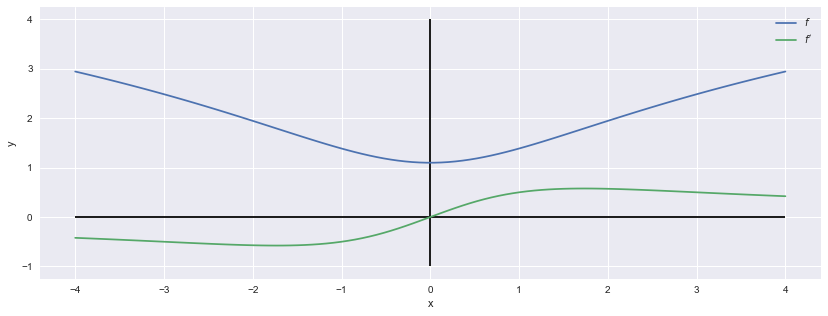
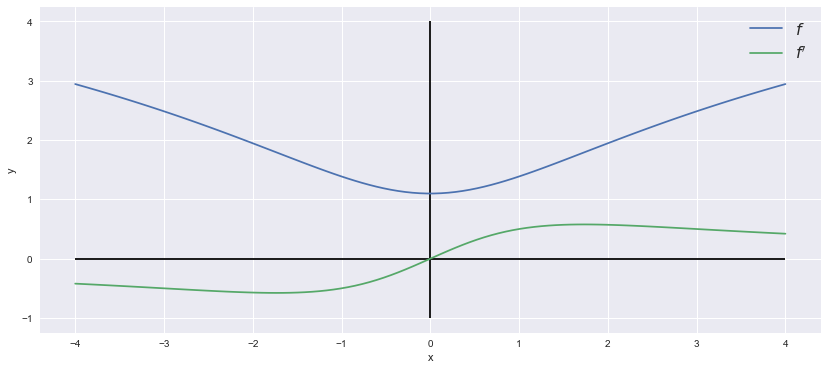
Update documentation

diff --git a/searchindex.js b/searchindex.js
@@ -1,1 +1,1 @@
-Search.setIndex({docnames:["data-pandas","innledning-programmering","intro","laste-inn-data","plotte"],envversion:{"sphinx.domains.c":2,"sphinx.domains.changeset":1,"sphinx.domains.citation":1,"sphinx.domains.cpp":4,"sphinx.domains.index":1,"sphinx.domains.javascript":2,"sphinx.domains.math":2,"sphinx.domains.python":3,"sphinx.domains.rst":2,"sphinx.domains.std":2,"sphinx.ext.intersphinx":1,"sphinxcontrib.bibtex":7,sphinx:56},filenames:["data-pandas.ipynb","innledning-programmering.ipynb","intro.md","laste-inn-data.ipynb","plotte.ipynb"],objects:{},objnames:{},objtypes:{},terms:{"0":[0,3,4],"00":[3,4],"000000":3,"00001":4,"01":3,"019231":3,"038462":3,"057692":3,"076923":3,"083333":3,"0x11a06e9a0":[],"0x11efd4b20":[],"1":1,"10":[3,4],"100":4,"11":[3,4],"111111":3,"12":[3,4],"120":3,"126":3,"127":3,"12759":0,"127788":0,"128129":0,"128612":0,"129578":0,"13":4,"132":3,"133":3,"134615":3,"1365":0,"14":[3,4],"141":3,"145":3,"15":4,"150":3,"152":3,"153":3,"153846":3,"157":3,"159":3,"16":[3,4],"160":3,"161":3,"16228":0,"166667":3,"17":4,"173077":3,"18":[3,4],"182":3,"1870":0,"1888":0,"19":3,"1920":3,"192308":3,"1939":3,"19680801":[],"1990":3,"2":[0,1],"20":[3,4],"2000":3,"2003":3,"2014":[],"2021":0,"2022":3,"21":[0,4],"211538":3,"22":[0,4],"222222":3,"23":[3,4],"236":3,"237":3,"238":3,"239":3,"24":4,"240":3,"2450":0,"25":3,"250000":3,"26":3,"277778":3,"29":3,"2x":4,"3":[0,1],"30":3,"31":3,"32":[0,3],"333333":3,"35":[0,3],"3630":0,"37":3,"4":[0,3],"40":3,"403846":3,"423077":3,"44":3,"442308":3,"46":3,"461538":3,"480769":3,"5":3,"50":3,"5025":0,"514":3,"515":3,"516":3,"517":3,"518":3,"54":3,"55":0,"555556":3,"58":3,"583333":3,"59":0,"6":[3,4],"61":3,"65":0,"66":0,"666667":3,"67":0,"691":3,"692":3,"693":3,"694":3,"695":3,"7":3,"70":0,"75":0,"750000":3,"7546762589928":3,"777778":3,"78":0,"8":[3,4],"833333":3,"85":0,"855":3,"856":3,"857":3,"858":3,"859":3,"860":3,"87":3,"87417582417586":3,"888889":3,"9":[3,4],"916667":3,"\u00e5":[0,1,3,4],"\u00e5pne":[1,3],"\u00e5pnet":1,"\u00e5r":3,"\u00e5rene":3,"\u00f8nsker":[0,1,3],"\u00f8re":0,"\u00f8verst":1,"b\u00e5de":0,"bl\u00e5ste":3,"d\u00f8gn":0,"default":[],"do":[],"f\u00e5":[0,1],"f\u00e5r":[0,1,3],"f\u00f8lgend":[0,3],"f\u00f8r":1,"f\u00f8rst":[0,1],"f\u00f8rste":[0,1,3],"function":[],"g\u00e5":0,"gj\u00f8r":[1,3],"gj\u00f8re":[0,3,4],"gr\u00f8t":0,"h\u00f8yest":3,"h\u00f8yreklikk":1,"halv\u00e5r":0,"id\u00e9":1,"import":[0,3,4],"kj\u00f8re":1,"kj\u00f8ringen":1,"kj\u00f8rt":1,"l\u00f8rdag":0,"l\u00f8rdagen":0,"l\u00f8ser":3,"m\u00e5":[0,3,4],"m\u00e5lestand":0,"m\u00e5lestasjon":3,"m\u00e5lt":3,"m\u00e5te":[0,3],"n\u00e5":[0,3],"n\u00e5r":[1,3],"ogs\u00e5":[0,3],"p\u00e5":[0,1,3,4],"rekkef\u00f8lgen":0,"return":4,"s\u00e5":[0,1,3],"s\u00e5kalt":0,"sm\u00e5":0,"sommer\u00f8ya":4,"st\u00e5r":0,"str\u00f8m":0,"str\u00f8mforbruk":0,"tilh\u00f8rend":4,"v\u00e5re":3,"v\u00e6re":[1,2],"v\u00e6rstasjon":0,"var":[0,3],And:[],As:[],At:[],BY:3,But:[],For:[0,3,4],If:[],In:[],It:[],The:[],There:[],_subplot:[],about:[],accept:[],add:[],add_:[],again:[],aksen:[3,4],alia:4,align:[],all:[],allow:[],alreadi:[],also:[],an:0,anaconda:1,anbefal:1,ander:0,andr:[1,3],ani:[],ankomst:0,anoth:[],antal:0,antallet:0,arrai:0,array:0,associ:[],auditori:[],australia:[],automatisk:1,av:[0,3],avhengig:3,avreis:0,ax:[],axessubplot:[],b:[1,3],begg:3,begin:[],behandl:3,being:[],bensinpris:3,beregning:3,bergen:4,betal:0,bib:[],bibliographi:[],bibtex:[],bla:1,ble:0,blir:[0,1,3],block:[],bokstaven:0,book:[],both:[],box:[],brian:[],brisban:[],bruke:[0,1,3,4],bruker:[0,3,4],brukt:0,build:[],built:[],bundl:[],bytt:0,c:[1,3,4],call:[],can:[],cc:3,cdot:[0,3],cell:[],cellen:1,celler:1,celsiu:3,check:[],christoph:[],circ:4,cite:[],cm:[],cmap:[],code:[],cognit:[],cold:[],color:[],column:[0,3],com:1,comma:0,command:[],common:[],commonmark:[],complex:[],comput:[],confer:[],content:[],coolwarm:[],cortex:[],creat:[],csv:[0,3],ctrl:[],custom_lin:[],cycler:[],d:3,d_f:4,da:[0,1,3,4],dagen:0,data:0,dataen:3,datafil:3,datafram:[0,3],datamaskin:1,datamengd:0,dataramm:3,datarammen:[0,3],dataserien:0,dataset:3,dato:3,datoer:3,de:[0,3,4],decim:3,def:4,defin:[],definer:4,definit:[],dekkend:1,del:[3,4],dem:0,den:[0,1,3,4],denn:[0,1,3,4],depend:[],der:[1,3],derfiner:4,derivert:4,dersom:[0,4],desimaltallen:3,det:[0,1,3],dett:[0,3,4],df:[0,3,4],diagramm:4,differ:[],dimensjon:0,din:[1,3],directli:[],displai:[],diss:[0,1,3],doc:[],document:[],doesn:[],dollar:3,dra:3,dtype:0,du:[1,3],dy:4,e39:3,e:[],ecosystem:[],egen:3,eier:0,eksempel:[],eksempelet:3,eksempl:[3,4],eleg:3,eller:1,emb:[],en:[0,1,3,4],end:[],endr:1,enkelt:1,enter:1,entir:[],er:[0,1,3,4],escap:[],et:[0,1,3,4],etc:[],evid:[],exampl:[],excel:3,exist:[],extens:[],f:[3,4],fahrenheit:3,feel:[],fig:[],figsiz:[3,4],figur:4,fil:[0,3],filen:[1,3],filer:[0,3],filnavnet:1,filtypen:0,fine:1,finn:3,finner:[0,1,4],first:[],fix:[],fjerd:1,flavor:[],fo:[],follow:[],forbruket:0,forhold:0,forkortels:4,formel:3,fra:[0,1],frac:3,fram:1,framstil:3,fredag:0,from:[],frontier:[],funger:1,funksjon:[0,3],funksjonen:4,funnet:3,gang:0,gansk:4,gaspric:3,gir:[0,3],github:3,gitt:[3,4],give:[],gjennom:[0,1,4],gjennomsnittsprisen:3,gjennomsnittstemperaturen:3,gjort:3,god:1,grader:3,grafen:4,grafer:4,grafisk:[3,4],gramstil:3,greit:4,grid:4,guid:[],gyldig:3,h:4,ha:[],hadd:3,har:[0,1,3],hdhpk14:[],heer:[],hele:3,hent:0,her:[1,2],here:[],heter:0,hjelp:3,hline:4,holdgraf:[],holdgraf_evidence_2014:[],hot:[],how:[],html:[],http:[1,3],human:[],hva:[0,3],hver:[0,4],hvilk:3,hvor:[0,3],hvordan:4,hytt:0,hytta:0,i:[0,1,3,4],ii:[],ikk:[1,3],imag:[],imorter:4,importer:[0,3],includ:[],indek:0,indeksen:0,index:0,index_col:3,individu:1,inform:[],init:[],inn:[0,1],innhol:3,innstilling:3,inntekt:0,inntekten:0,input:[],insert:[],insid:[],installert:1,interact:[],intern:[],intro:[],io:3,ion:[],ipynb:[],its:[],januar:3,jobbet:0,jupyt:[1,3],jupytext:[],jypyt:1,kaller:[0,3],kan:[0,1,2,3,4],kantinen:0,keep:[],kernel:[],kilowattim:0,kind:[],klar:1,klikk:1,klikker:[1,3],klima:3,klokkeslett:4,knappen:1,knight:[],koch:[],koch_curve_5:[],kodch:[],kodcjhttp:[],koden:1,kokkeslett:4,kolonn:[0,3],kolonneindek:0,kolonnen:[0,3],komm:1,komma:3,kommer:0,koordinatsystem:4,kraftig:3,kun:3,kunn:[3,4],kwh:0,kyll:0,la_:[],lab:1,label:4,lag:[0,3,4],lage:[0,4],lagen:1,lager:[0,3,4],laget:1,lagr:1,lagrer:3,lagret:[0,3],lagt:3,lak:0,languag:[],last:[0,1,3],lastet:3,legend:4,legg:[0,2],legger:[0,3,4],leirvik:4,lerstanden:0,lese:[1,3],leser:[0,3],less:[],like:1,liker:1,line2d:[],line:0,linjen:1,linspac:4,list:[3,4],lister:[0,4],listet:0,lite:3,litt:3,ll:[],ln:4,log:4,logaritm:4,logspac:[],look:[],lot:[],lurt:1,lw:[],m:3,ma:0,make:[],mandag:0,mang:[0,4],mani:[],mappen:[1,3],margen:1,markedli:[],markup:[],matematikk:[],math:[],matplotlib:[3,4],max:3,mbox:[],mc:[],md:[],mean:3,med:[0,1,3],medium:[],mellom:4,men:[0,1],mer:1,mest:[0,1],met:3,metadata:[],metod:3,metoden:[0,3],middag:0,min:3,modul:0,modulen:[0,4],more:[],moreov:[],most:[],mulighet:1,must:[],my:[],mydirectivenam:[],mye:0,n:[],name:[],nan:3,naturlig:4,navig:1,navn:[0,1,3,4],navnet:[0,1],nb:[],ned:[0,1,3],nedenfor:[1,4],nederst:3,nedlastningsmapp:3,nemlig:0,nettet:3,nettles:3,nettsiden:3,neurosci:[],noe:1,noen:[1,4],normaltid:3,norsk:3,note:[],notebook:1,nottem:3,nottingham:3,np:4,numpi:4,ny:[1,3],nye:0,nyttig:2,o:4,object:0,objekt:0,oft:[0,4],og:[1,3,4],om:3,omvendt:4,onc:[],one:[],onli:[],onsdag:0,opp:0,org:[],oss:[0,3],out:[],output:1,over:[0,1,3],overisk:0,pa:[0,3],page:[],panda:[0,3],par:3,paslei:[],pass:3,pasta:0,path:[],pattern:[],pd:[0,3],per:[0,3],perioden:3,pizza:0,plai:1,plass3:0,plot:3,plott:3,plotten:4,plotter:4,plt:[3,4],png:[],post:[],power:[],pre:[],predict:[],pri:[0,3],print:[1,3],prisen:0,priser:3,problem:3,product:1,program:1,programmer:1,prop_cycl:[],properli:[],punktum:3,purpos:[],pyplot:[3,4],python:[0,3],quantreg:3,r1:1,r:4,rad:0,rader:3,ramsai:[],randn:[],random:[],rang:[3,4],rcparam:[],rdataset:3,read_csv:3,refer:[],regn:3,regner:0,regular:[],reiser:0,rekk:[0,1],rel:[],render:[],rene:3,representasjon:4,reproduc:[],rest:[],result:[],resultatet:1,rett:0,retten:0,retter:0,robert:[],rolenam:[],row:3,run:[],rutenett:4,s:0,same:[],samm:4,sammen:[0,4],sampl:[],se:[0,3],seaborn:[3,4],see:[],seed:[],seg:1,seklima:3,selv:3,selvsagt:3,semikolon:3,sep:3,separ:0,ser:[0,3],seri:0,serv:[],shift:1,show:[3,4],si:1,sign:[],similar:[],simplest:[],sist:0,sistnevnt:1,skal:[0,3,4],skill:3,skjer:1,skjermen:1,skrev:0,skrive:3,skriver:[0,1],slight:[],slik:[0,1,4],slike:0,slott:3,slutt:0,small:[],sn48070:3,so:[],solgt:0,som:[0,1,2,3,4],some:[],span:[],specif:[],spesifiser:3,sphinx:[],spyder:1,stand:[],standard:3,starter:1,stasjon:3,state:[],stord:4,stordabrua:3,store:0,structur:[],style:[3,4],subplot:[],sum:0,summen:1,summer:0,sure:[],syntax:[],t:[],tabellen:4,tabl:3,taco:0,tall:0,tallen:[0,3,4],tegn:4,tempbergen:4,temperatur:[3,4],temperaturen:[0,3,4],templeirvik:4,ten:0,tex:[],text:[],thei:[],thi:[],those:[],tid:[3,4],tiden:3,tidliger:0,tidsrommet:3,tidsseri:3,tidsserien:3,til:[0,1,3,4],tilgang:0,time:3,ting:2,tisdag:0,titl:4,tittel:4,tool:[],torsdag:0,tre:1,trenger:1,trykker:1,two:[],type:0,ukedagen:0,ukentlig:3,ulik:[0,1,3,4],undervei:1,upload:[],url:3,urlen:3,us:[3,4],usa:3,ut:[0,1,2,3],utgiften:0,utvid:0,valgen:3,valid:[],valu:[0,3],vanlig:0,variabelen:1,variabl:1,variat:[],ved:[0,1,3,4],veldig:1,velg:[3,4],venstr:[1,3],verdi:4,verdien:[1,3,4],verdier:4,veri:[],verier:0,vi:[0,1,2,4],vil:[0,1,2,3],vincentarelbundock:3,vindkast:3,vindkasten:3,vindkastet:3,viser:[3,4],vline:4,want:[],welcom:[],well:[],wendi:[],when:[],wherea:[],whether:[],which:[],wikimedia:[],wikipedia:[],work:[],write:[],written:[],www:1,x:[3,4],xlabel:[3,4],y:[3,4],ylabel:[3,4],you:[],your:[]},titles:["Dataserier og datarammer","Installasjon av Python","Matematikk R1","Vi laster inn data fra internett","Plotte med Python"],titleterms:{"1":[0,3,4],"2":[3,4],"3":[3,4],"4":4,"5":4,"\u00e5":[],"l\u00f8sning":3,ad:[],ar:[],av:[1,4],behandl:[],block:[],book:[],citat:[],code:[],content:[],data:3,dataramm:0,dataseri:0,direct:[],eksempel:[0,3,4],execut:[],file:[],fra:3,funksjon:4,her:[],i:[],inn:3,installasjon:1,internett:3,jupyt:[],kontinuerlig:4,last:[],laster:3,linjediagramm:4,markdown:[],matematikk:2,med:4,myst:[],ned:[],notebook:[],og:0,oppgav:[0,3],output:[],plot:4,plott:4,python:[1,4],r1:2,role:[],siden:[],til:[],us:[],vel:[],velkommen:[],vi:3,welcom:[],what:[],your:[]}})
+Search.setIndex({docnames:["data-pandas","innledning-programmering","intro","laste-inn-data","plotte"],envversion:{"sphinx.domains.c":2,"sphinx.domains.changeset":1,"sphinx.domains.citation":1,"sphinx.domains.cpp":4,"sphinx.domains.index":1,"sphinx.domains.javascript":2,"sphinx.domains.math":2,"sphinx.domains.python":3,"sphinx.domains.rst":2,"sphinx.domains.std":2,"sphinx.ext.intersphinx":1,"sphinxcontrib.bibtex":7,sphinx:56},filenames:["data-pandas.ipynb","innledning-programmering.ipynb","intro.md","laste-inn-data.ipynb","plotte.ipynb"],objects:{},objnames:{},objtypes:{},terms:{"0":[0,3,4],"00":[3,4],"000000":3,"00001":4,"01":3,"019231":3,"038462":3,"057692":3,"076923":3,"083333":3,"0x11a06e9a0":[],"0x11efd4b20":[],"1":1,"10":[3,4],"100":4,"11":[3,4],"111111":3,"12":[3,4],"120":3,"126":3,"127":3,"12759":0,"127788":0,"128129":0,"128612":0,"129578":0,"13":4,"132":3,"133":3,"134615":3,"1365":0,"14":[3,4],"141":3,"145":3,"15":4,"150":3,"152":3,"153":3,"153846":3,"157":3,"159":3,"16":[3,4],"160":3,"161":3,"16228":0,"166667":3,"17":4,"173077":3,"18":[3,4],"182":3,"1870":0,"1888":0,"19":3,"1920":3,"192308":3,"1939":3,"19680801":[],"1990":3,"2":[0,1],"20":[3,4],"2000":3,"2003":3,"2014":[],"2021":0,"2022":3,"21":[0,4],"211538":3,"22":[0,4],"222222":3,"23":[3,4],"236":3,"237":3,"238":3,"239":3,"24":4,"240":3,"2450":0,"25":3,"250000":3,"26":3,"277778":3,"29":3,"2x":4,"3":[0,1],"30":3,"31":3,"32":[0,3],"333333":3,"35":[0,3],"3630":0,"37":3,"4":[0,3],"40":3,"403846":3,"423077":3,"44":3,"442308":3,"46":3,"461538":3,"480769":3,"5":3,"50":3,"5025":0,"514":3,"515":3,"516":3,"517":3,"518":3,"54":3,"55":0,"555556":3,"58":3,"583333":3,"59":0,"6":[3,4],"61":3,"65":0,"66":0,"666667":3,"67":0,"691":3,"692":3,"693":3,"694":3,"695":3,"7":3,"70":0,"75":0,"750000":3,"7546762589928":3,"777778":3,"78":0,"8":[3,4],"833333":3,"85":0,"855":3,"856":3,"857":3,"858":3,"859":3,"860":3,"87":3,"87417582417586":3,"888889":3,"9":[3,4],"916667":3,"\u00e5":[0,1,3,4],"\u00e5pne":[1,3],"\u00e5pnet":1,"\u00e5r":3,"\u00e5rene":3,"\u00f8nsker":[0,1,3],"\u00f8re":0,"\u00f8verst":1,"b\u00e5de":0,"bl\u00e5ste":3,"d\u00f8gn":0,"default":[],"do":[],"f\u00e5":[0,1],"f\u00e5r":[0,1,3],"f\u00f8lgend":[0,3],"f\u00f8r":1,"f\u00f8rst":[0,1],"f\u00f8rste":[0,1,3],"function":[],"g\u00e5":0,"gj\u00f8r":[1,3],"gj\u00f8re":[0,3,4],"gr\u00f8t":0,"h\u00f8yest":3,"h\u00f8yreklikk":1,"halv\u00e5r":0,"id\u00e9":1,"import":[0,3,4],"kj\u00f8re":1,"kj\u00f8ringen":1,"kj\u00f8rt":1,"l\u00f8rdag":0,"l\u00f8rdagen":0,"l\u00f8ser":3,"m\u00e5":[0,3,4],"m\u00e5lestand":0,"m\u00e5lestasjon":3,"m\u00e5lt":3,"m\u00e5te":[0,3],"n\u00e5":[0,3],"n\u00e5r":[1,3],"ogs\u00e5":[0,3],"p\u00e5":[0,1,3,4],"rekkef\u00f8lgen":0,"return":4,"s\u00e5":[0,1,3],"s\u00e5kalt":0,"sm\u00e5":0,"sommer\u00f8ya":4,"st\u00e5r":0,"str\u00f8m":0,"str\u00f8mforbruk":0,"tilh\u00f8rend":4,"v\u00e5re":3,"v\u00e6re":[1,2],"v\u00e6rstasjon":0,"var":[0,3],And:[],As:[],At:[],BY:3,But:[],For:[0,3,4],If:[],In:[],It:[],The:[],There:[],_subplot:[],about:[],accept:[],add:[],add_:[],again:[],aksen:[3,4],alia:4,align:[],all:[],allow:[],alreadi:[],also:[],an:0,anaconda:1,anbefal:1,ander:0,andr:[1,3],ani:[],ankomst:0,anoth:[],antal:0,antallet:0,arrai:0,array:0,associ:[],auditori:[],australia:[],automatisk:1,av:[0,3],avhengig:3,avreis:0,ax:[],axessubplot:[],b:[1,3],begg:3,begin:[],behandl:3,being:[],bensinpris:3,beregning:3,bergen:4,betal:0,bib:[],bibliographi:[],bibtex:[],bla:1,ble:0,blir:[0,1,3],block:[],bokstaven:0,book:[],both:[],box:[],brian:[],brisban:[],bruke:[0,1,3,4],bruker:[0,3,4],brukt:0,build:[],built:[],bundl:[],bytt:0,c:[1,3,4],call:[],can:[],cc:3,cdot:[0,3],cell:[],cellen:1,celler:1,celsiu:3,check:[],christoph:[],circ:4,cite:[],cm:[],cmap:[],code:[],cognit:[],cold:[],color:[],column:[0,3],com:1,comma:0,command:[],common:[],commonmark:[],complex:[],comput:[],confer:[],content:[],coolwarm:[],cortex:[],creat:[],csv:[0,3],ctrl:[],custom_lin:[],cycler:[],d:3,d_f:4,da:[0,1,3,4],dagen:0,data:0,dataen:3,datafil:3,datafram:[0,3],datamaskin:1,datamengd:0,dataramm:3,datarammen:[0,3],dataserien:0,dataset:3,dato:3,datoer:3,de:[0,3,4],decim:3,def:4,defin:[],definer:4,definit:[],dekkend:1,del:[3,4],dem:0,den:[0,1,3,4],denn:[0,1,3,4],depend:[],der:[1,3],derfiner:4,derivert:4,dersom:[0,4],desimaltallen:3,det:[0,1,3],dett:[0,3,4],df:[0,3,4],diagramm:4,differ:[],dimensjon:0,din:[1,3],directli:[],displai:[],diss:[0,1,3],doc:[],document:[],doesn:[],dollar:3,dra:3,dtype:0,du:[1,3],dy:4,e39:3,e:[],ecosystem:[],egen:3,eier:0,eksempel:[],eksempelet:3,eksempl:[3,4],eleg:3,eller:1,emb:[],en:[0,1,3,4],end:[],endr:1,enkelt:1,enter:1,entir:[],er:[0,1,3,4],escap:[],et:[0,1,3,4],etc:[],evid:[],exampl:[],excel:3,exist:[],extens:[],f:[3,4],fahrenheit:3,feel:[],fig:[],figsiz:[3,4],figur:4,fil:[0,3],filen:[1,3],filer:[0,3],filnavnet:1,filtypen:0,fine:1,finn:3,finner:[0,1,4],first:[],fix:[],fjerd:1,flavor:[],fo:[],follow:[],fontsiz:4,forbruket:0,forhold:0,forkortels:4,formel:3,fra:[0,1],frac:3,fram:1,framstil:3,fredag:0,from:[],frontier:[],funger:1,funksjon:[0,3],funksjonen:4,funnet:3,gang:0,gansk:4,gaspric:3,gir:[0,3],github:3,gitt:[3,4],give:[],gjennom:[0,1,4],gjennomsnittsprisen:3,gjennomsnittstemperaturen:3,gjort:3,god:1,grader:3,grafen:4,grafer:4,grafisk:[3,4],gramstil:3,greit:4,grid:4,guid:[],gyldig:3,h:4,ha:[],hadd:3,har:[0,1,3],hdhpk14:[],heer:[],hele:3,hent:0,her:[1,2],here:[],heter:0,hjelp:3,hline:4,holdgraf:[],holdgraf_evidence_2014:[],hot:[],how:[],html:[],http:[1,3],human:[],hva:[0,3],hver:[0,4],hvilk:3,hvor:[0,3],hvordan:4,hytt:0,hytta:0,i:[0,1,3,4],ii:[],ikk:[1,3],imag:[],imorter:4,importer:[0,3],includ:[],indek:0,indeksen:0,index:0,index_col:3,individu:1,inform:[],init:[],inn:[0,1],innhol:3,innstilling:3,inntekt:0,inntekten:0,input:[],insert:[],insid:[],installert:1,interact:[],intern:[],intro:[],io:3,ion:[],ipynb:[],its:[],januar:3,jobbet:0,jupyt:[1,3],jupytext:[],jypyt:1,kaller:[0,3],kan:[0,1,2,3,4],kantinen:0,keep:[],kernel:[],kilowattim:0,kind:[],klar:1,klikk:1,klikker:[1,3],klima:3,klokkeslett:4,knappen:1,knight:[],koch:[],koch_curve_5:[],kodch:[],kodcjhttp:[],koden:1,kokkeslett:4,kolonn:[0,3],kolonneindek:0,kolonnen:[0,3],komm:1,komma:3,kommer:0,koordinatsystem:4,kraftig:3,kun:3,kunn:[3,4],kwh:0,kyll:0,la_:[],lab:1,label:4,lag:[0,3,4],lage:[0,4],lagen:1,lager:[0,3,4],laget:1,lagr:1,lagrer:3,lagret:[0,3],lagt:3,lak:0,languag:[],last:[0,1,3],lastet:3,legend:4,legg:[0,2],legger:[0,3,4],leirvik:4,lerstanden:0,lese:[1,3],leser:[0,3],less:[],like:1,liker:1,line2d:[],line:0,linjen:1,linspac:4,list:[3,4],lister:[0,4],listet:0,lite:3,litt:3,ll:[],ln:4,log:4,logaritm:4,logspac:[],look:[],lot:[],lurt:1,lw:[],m:3,ma:0,make:[],mandag:0,mang:[0,4],mani:[],mappen:[1,3],margen:1,markedli:[],markup:[],matematikk:[],math:[],matplotlib:[3,4],max:3,mbox:[],mc:[],md:[],mean:3,med:[0,1,3],medium:[],mellom:4,men:[0,1],mer:1,mest:[0,1],met:3,metadata:[],metod:3,metoden:[0,3],middag:0,min:3,modul:0,modulen:[0,4],more:[],moreov:[],most:[],mulighet:1,must:[],my:[],mydirectivenam:[],mye:0,n:[],name:[],nan:3,naturlig:4,navig:1,navn:[0,1,3,4],navnet:[0,1],nb:[],ned:[0,1,3],nedenfor:[1,4],nederst:3,nedlastningsmapp:3,nemlig:0,nettet:3,nettles:3,nettsiden:3,neurosci:[],noe:1,noen:[1,4],normaltid:3,norsk:3,note:[],notebook:1,nottem:3,nottingham:3,np:4,numpi:4,ny:[1,3],nye:0,nyttig:2,o:4,object:0,objekt:0,oft:[0,4],og:[1,3,4],om:3,omvendt:4,onc:[],one:[],onli:[],onsdag:0,opp:0,org:[],oss:[0,3],out:[],output:1,over:[0,1,3],overisk:0,pa:[0,3],page:[],panda:[0,3],par:3,paslei:[],pass:3,pasta:0,path:[],pattern:[],pd:[0,3],per:[0,3],perioden:3,pizza:0,plai:1,plass3:0,plot:3,plott:3,plotten:4,plotter:4,plt:[3,4],png:[],post:[],power:[],pre:[],predict:[],pri:[0,3],print:[1,3],prisen:0,priser:3,problem:3,product:1,program:1,programmer:1,prop_cycl:[],properli:[],punktum:3,purpos:[],pyplot:[3,4],python:[0,3],quantreg:3,r1:1,r:4,rad:0,rader:3,ramsai:[],randn:[],random:[],rang:[3,4],rcparam:[],rdataset:3,read_csv:3,refer:[],regn:3,regner:0,regular:[],reiser:0,rekk:[0,1],rel:[],render:[],rene:3,representasjon:4,reproduc:[],rest:[],result:[],resultatet:1,rett:0,retten:0,retter:0,robert:[],rolenam:[],row:3,run:[],rutenett:4,s:0,same:[],samm:4,sammen:[0,4],sampl:[],se:[0,3],seaborn:[3,4],see:[],seed:[],seg:1,seklima:3,selv:3,selvsagt:3,semikolon:3,sep:3,separ:0,ser:[0,3],seri:0,serv:[],shift:1,show:[3,4],si:1,sign:[],similar:[],simplest:[],sist:0,sistnevnt:1,skal:[0,3,4],skill:3,skjer:1,skjermen:1,skrev:0,skrive:3,skriver:[0,1],slight:[],slik:[0,1,4],slike:0,slott:3,slutt:0,small:[],sn48070:3,so:[],solgt:0,som:[0,1,2,3,4],some:[],span:[],specif:[],spesifiser:3,sphinx:[],spyder:1,stand:[],standard:3,starter:1,stasjon:3,state:[],stord:4,stordabrua:3,store:0,structur:[],style:[3,4],subplot:[],sum:0,summen:1,summer:0,sure:[],syntax:[],t:[],tabellen:4,tabl:3,taco:0,tall:0,tallen:[0,3,4],tegn:4,tempbergen:4,temperatur:[3,4],temperaturen:[0,3,4],templeirvik:4,ten:0,tex:[],text:[],thei:[],thi:[],those:[],tid:[3,4],tiden:3,tidliger:0,tidsrommet:3,tidsseri:3,tidsserien:3,til:[0,1,3,4],tilgang:0,time:3,ting:2,tisdag:0,titl:4,tittel:4,tool:[],torsdag:0,tre:1,trenger:1,trykker:1,two:[],type:0,ukedagen:0,ukentlig:3,ulik:[0,1,3,4],undervei:1,upload:[],url:3,urlen:3,us:[3,4],usa:3,ut:[0,1,2,3],utgiften:0,utvid:0,valgen:3,valid:[],valu:[0,3],vanlig:0,variabelen:1,variabl:1,variat:[],ved:[0,1,3,4],veldig:1,velg:[3,4],venstr:[1,3],verdi:4,verdien:[1,3,4],verdier:4,veri:[],verier:0,vi:[0,1,2,4],vil:[0,1,2,3],vincentarelbundock:3,vindkast:3,vindkasten:3,vindkastet:3,viser:[3,4],vline:4,want:[],welcom:[],well:[],wendi:[],when:[],wherea:[],whether:[],which:[],wikimedia:[],wikipedia:[],work:[],write:[],written:[],www:1,x:[3,4],xlabel:[3,4],y:[3,4],ylabel:[3,4],you:[],your:[]},titles:["Dataserier og datarammer","Installasjon av Python","Matematikk R1","Vi laster inn data fra internett","Plotte med Python"],titleterms:{"1":[0,3,4],"2":[3,4],"3":[3,4],"4":4,"5":4,"\u00e5":[],"l\u00f8sning":3,ad:[],ar:[],av:[1,4],behandl:[],block:[],book:[],citat:[],code:[],content:[],data:3,dataramm:0,dataseri:0,direct:[],eksempel:[0,3,4],execut:[],file:[],fra:3,funksjon:4,her:[],i:[],inn:3,installasjon:1,internett:3,jupyt:[],kontinuerlig:4,last:[],laster:3,linjediagramm:4,markdown:[],matematikk:2,med:4,myst:[],ned:[],notebook:[],og:0,oppgav:[0,3],output:[],plot:4,plott:4,python:[1,4],r1:2,role:[],siden:[],til:[],us:[],vel:[],velkommen:[],vi:3,welcom:[],what:[],your:[]}})

diff --git a/plotte.html b/plotte.html
@@ -554,14 +554,14 @@ samme  koordinatsystem.</p>
 <span class="n">X</span> <span class="o">=</span> <span class="n">np</span><span class="o">.</span><span class="n">linspace</span><span class="p">(</span><span class="o">-</span><span class="mi">4</span><span class="p">,</span> <span class="mi">4</span><span class="p">,</span> <span class="mi">100</span><span class="p">)</span>
 <span class="n">Y</span> <span class="o">=</span> <span class="n">f</span><span class="p">(</span><span class="n">X</span><span class="p">)</span>
 <span class="n">dY</span> <span class="o">=</span> <span class="n">df</span><span class="p">(</span><span class="n">X</span><span class="p">)</span>
-<span class="n">plt</span><span class="o">.</span><span class="n">figure</span><span class="p">(</span><span class="n">figsize</span><span class="o">=</span><span class="p">(</span><span class="mi">14</span><span class="p">,</span> <span class="mi">5</span><span class="p">))</span>
+<span class="n">plt</span><span class="o">.</span><span class="n">figure</span><span class="p">(</span><span class="n">figsize</span><span class="o">=</span><span class="p">(</span><span class="mi">14</span><span class="p">,</span> <span class="mi">6</span><span class="p">))</span>
 <span class="n">plt</span><span class="o">.</span><span class="n">plot</span><span class="p">(</span><span class="n">X</span><span class="p">,</span> <span class="n">Y</span><span class="p">,</span> <span class="n">label</span><span class="o">=</span><span class="sa">r</span><span class="s2">&quot;$f$&quot;</span><span class="p">)</span>
 <span class="n">plt</span><span class="o">.</span><span class="n">plot</span><span class="p">(</span><span class="n">X</span><span class="p">,</span> <span class="n">dY</span><span class="p">,</span> <span class="n">label</span><span class="o">=</span><span class="sa">r</span><span class="s2">&quot;$f&#39;$&quot;</span><span class="p">)</span>
 <span class="n">plt</span><span class="o">.</span><span class="n">vlines</span><span class="p">(</span><span class="mi">0</span><span class="p">,</span> <span class="o">-</span><span class="mi">1</span><span class="p">,</span> <span class="mi">4</span><span class="p">)</span>
 <span class="n">plt</span><span class="o">.</span><span class="n">hlines</span><span class="p">(</span><span class="mi">0</span><span class="p">,</span> <span class="o">-</span><span class="mi">4</span><span class="p">,</span> <span class="mi">4</span><span class="p">)</span>
 <span class="n">plt</span><span class="o">.</span><span class="n">xlabel</span><span class="p">(</span><span class="s2">&quot;x&quot;</span><span class="p">)</span>
 <span class="n">plt</span><span class="o">.</span><span class="n">ylabel</span><span class="p">(</span><span class="s2">&quot;y&quot;</span><span class="p">)</span>
-<span class="n">plt</span><span class="o">.</span><span class="n">legend</span><span class="p">()</span>
+<span class="n">plt</span><span class="o">.</span><span class="n">legend</span><span class="p">(</span><span class="n">fontsize</span><span class="o">=</span><span class="mi">16</span><span class="p">)</span>
 <span class="n">plt</span><span class="o">.</span><span class="n">show</span><span class="p">()</span>
 </pre></div>
 </div>
